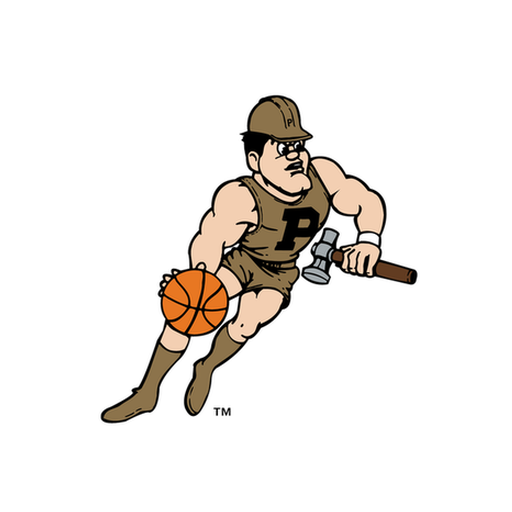
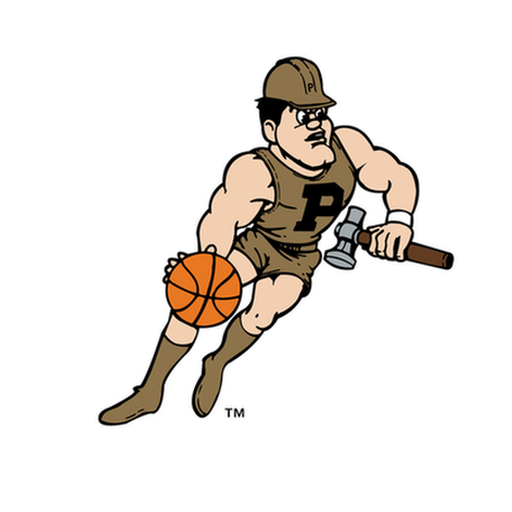
Enlarge authentic Purdue Pete by circle-aware optical centering

Changed region(s): [[0.1875, 0.0938, 0.9062, 0.8438]]

diff --git a/cbb-big-ten-1980s-preview.html b/cbb-big-ten-1980s-preview.html
@@ -66,9 +66,9 @@ a{color:#74412e}a:focus-visible{outline:3px solid #bd672f}
 <article class="school"><span class="crest " style="--primary:#5e0a2f;--secondary:#fab41c"><img src="assets/cbb-big-ten-1980s/centered/minnesota.png?v=20261114-ring-safe-v3" alt="Minnesota Golden Gophers user-selected vintage running gopher logo" loading="eager" decoding="async"><span class="fallback-note">Image unavailable</span></span><strong>Minnesota Golden Gophers</strong><div class="era">User-selected historic running gopher</div></article>
 <article class="school"><span class="crest " style="--primary:#492f92;--secondary:#8070ac"><img src="assets/cbb-big-ten-1980s/centered/northwestern.png?v=20261113-optical-v2" alt="Northwestern Wildcats historic school logo" loading="eager" decoding="async"><span class="fallback-note">Image unavailable</span></span><strong>Northwestern Wildcats</strong><div class="era">Archive era: 1981–2011</div></article>
 <article class="school"><span class="crest " style="--primary:#ba0c2f;--secondary:#a8adb4"><img src="assets/cbb-big-ten-1980s/centered/ohio-state.png" alt="Ohio State Buckeyes historic school logo" loading="eager" decoding="async"><span class="fallback-note">Image unavailable</span></span><strong>Ohio State Buckeyes</strong><div class="era">Archive era: 1968–1987</div></article>
-<article class="school"><span class="crest " style="--primary:#ceb888;--secondary:#000000"><img src="assets/cbb-big-ten-1980s/centered/purdue.png?v=20261114-pete-balanced-v5" alt="Purdue Boilermakers historic school logo" loading="eager" decoding="async"><span class="fallback-note">Image unavailable</span></span><strong>Purdue Boilermakers</strong><div class="era">Archive era:1979–2006</div></article>
+<article class="school"><span class="crest " style="--primary:#ceb888;--secondary:#000000"><img src="assets/cbb-big-ten-1980s/centered/purdue.png?v=20261114-pete-optical-v6" alt="Purdue Boilermakers historic school logo" loading="eager" decoding="async"><span class="fallback-note">Image unavailable</span></span><strong>Purdue Boilermakers</strong><div class="era">Archive era:1979–2006</div></article>
 <article class="school"><span class="crest " style="--primary:#a00000;--secondary:#b45454"><img src="assets/cbb-big-ten-1980s/centered/wisconsin.png" alt="Wisconsin Badgers historic school logo" loading="eager" decoding="async"><span class="fallback-note">Image unavailable</span></span><strong>Wisconsin Badgers</strong><div class="era">Archive era:1970–2003</div></article>
 </div></section>
-<section aria-labelledby="scorebugs"><h2 id="scorebugs">How the bigger logos fit on scorebugs</h2><div class="bench"><article class="ledger-card"><div class="ledger-kicker">Men's college basketball <span>DESIGN SAMPLE • NOT A SCHEDULED GAME</span></div><div class="ledger-main"><div class="ledger-row"><span class="crest ledger-crest" style="--primary:#990000;--secondary:#f5e3cc"><img src="assets/cbb-big-ten-1980s/centered/indiana.png" alt="Indiana Hoosiers historic school logo" loading="eager" decoding="async"><span class="fallback-note">Image unavailable</span></span><div class="ledger-school"><strong>Indiana Hoosiers</strong><small>Original historical university crest</small></div><div class="ledger-score">—</div></div><div class="ledger-row"><span class="crest ledger-crest" style="--primary:#173f35;--secondary:#627a74"><img src="assets/cbb-big-ten-1980s/centered/michigan-state.png" alt="Michigan State Spartans historic school logo" loading="eager" decoding="async"><span class="fallback-note">Image unavailable</span></span><div class="ledger-school"><strong>Michigan State Spartans</strong><small>Original historical university crest</small></div><div class="ledger-score">—</div></div></div><div class="ledger-foot"><span>RETRO —</span><span>Large emblems · No name overlap</span></div></article><article class="ledger-card"><div class="ledger-kicker">Women's college basketball <span>DESIGN SAMPLE • NOT A SCHEDULED GAME</span></div><div class="ledger-main"><div class="ledger-row"><span class="crest ledger-crest" style="--primary:#ff5f05;--secondary:#13294b"><img src="assets/cbb-big-ten-1980s/centered/illinois.png" alt="Illinois Fighting Illini historic school logo" loading="eager" decoding="async"><span class="fallback-note">Image unavailable</span></span><div class="ledger-school"><strong>Illinois Fighting Illini</strong><small>Original historical university crest</small></div><div class="ledger-score">—</div></div><div class="ledger-row"><span class="crest ledger-crest" style="--primary:#ceb888;--secondary:#000000"><img src="assets/cbb-big-ten-1980s/centered/purdue.png?v=20261114-pete-balanced-v5" alt="Purdue Boilermakers historic school logo" loading="eager" decoding="async"><span class="fallback-note">Image unavailable</span></span><div class="ledger-school"><strong>Purdue Boilermakers</strong><small>Original historical university crest</small></div><div class="ledger-score">—</div></div></div><div class="ledger-foot"><span>RETRO —</span><span>Large emblems · No name overlap</span></div></article></div></section>
+<section aria-labelledby="scorebugs"><h2 id="scorebugs">How the bigger logos fit on scorebugs</h2><div class="bench"><article class="ledger-card"><div class="ledger-kicker">Men's college basketball <span>DESIGN SAMPLE • NOT A SCHEDULED GAME</span></div><div class="ledger-main"><div class="ledger-row"><span class="crest ledger-crest" style="--primary:#990000;--secondary:#f5e3cc"><img src="assets/cbb-big-ten-1980s/centered/indiana.png" alt="Indiana Hoosiers historic school logo" loading="eager" decoding="async"><span class="fallback-note">Image unavailable</span></span><div class="ledger-school"><strong>Indiana Hoosiers</strong><small>Original historical university crest</small></div><div class="ledger-score">—</div></div><div class="ledger-row"><span class="crest ledger-crest" style="--primary:#173f35;--secondary:#627a74"><img src="assets/cbb-big-ten-1980s/centered/michigan-state.png" alt="Michigan State Spartans historic school logo" loading="eager" decoding="async"><span class="fallback-note">Image unavailable</span></span><div class="ledger-school"><strong>Michigan State Spartans</strong><small>Original historical university crest</small></div><div class="ledger-score">—</div></div></div><div class="ledger-foot"><span>RETRO —</span><span>Large emblems · No name overlap</span></div></article><article class="ledger-card"><div class="ledger-kicker">Women's college basketball <span>DESIGN SAMPLE • NOT A SCHEDULED GAME</span></div><div class="ledger-main"><div class="ledger-row"><span class="crest ledger-crest" style="--primary:#ff5f05;--secondary:#13294b"><img src="assets/cbb-big-ten-1980s/centered/illinois.png" alt="Illinois Fighting Illini historic school logo" loading="eager" decoding="async"><span class="fallback-note">Image unavailable</span></span><div class="ledger-school"><strong>Illinois Fighting Illini</strong><small>Original historical university crest</small></div><div class="ledger-score">—</div></div><div class="ledger-row"><span class="crest ledger-crest" style="--primary:#ceb888;--secondary:#000000"><img src="assets/cbb-big-ten-1980s/centered/purdue.png?v=20261114-pete-optical-v6" alt="Purdue Boilermakers historic school logo" loading="eager" decoding="async"><span class="fallback-note">Image unavailable</span></span><div class="ledger-school"><strong>Purdue Boilermakers</strong><small>Original historical university crest</small></div><div class="ledger-score">—</div></div></div><div class="ledger-foot"><span>RETRO —</span><span>Large emblems · No name overlap</span></div></article></div></section>
 <footer class="notes"><strong>Design preview, not a live scoreboard.</strong> The matchups above demonstrate the layout only, and the dashes are not game results. Later Big Ten additions will retain their own authentic institutional logos and are not presented as 1980s Big Ten members. This page does not change schedules, RETRO calculations, or any live CBB page. Historical school marks belong to their respective institutions.</footer>
 </main></body></html>
